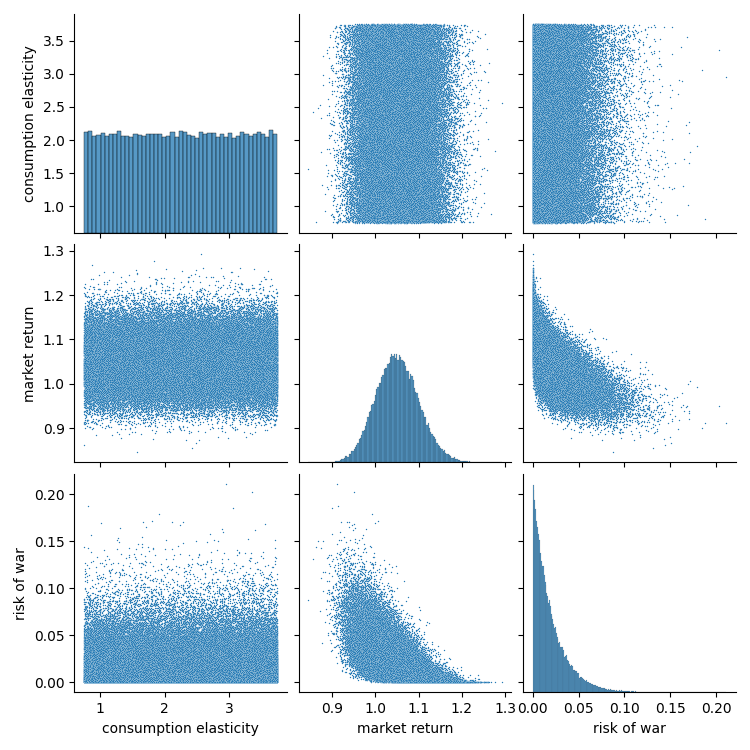
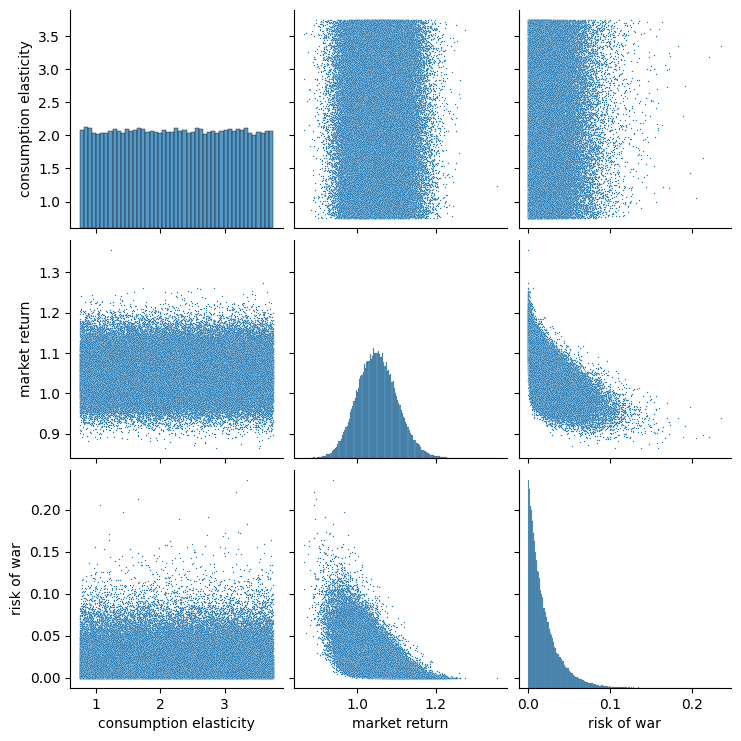
fix README

Changed region(s): [[0.0, 0.0, 0.9933, 0.9933], [0.9312, 0.3104, 0.9622, 0.3414], [0.8691, 0.3104, 0.9001, 0.3414]]

diff --git a/README.md b/README.md
@@ -60,12 +60,12 @@ import seaborn as sns
 
 marginals = [
     stats.uniform(0.75, 3),
-    stats.lognorm(1, 1),
-    stats.beta(1, 100)
+    stats.lognorm(0.05, 0.05),
+    stats.beta(1, 50)
 ]
 
 spearman = np.eye(3)
-spearman[1, 2] = spearman[2, 1] = -0.3
+spearman[1, 2] = spearman[2, 1] = -0.5
 
 # Instantiate the (frozen) joint distribution
 dist = CopulaJoint(marginals, spearman_rho=spearman)
